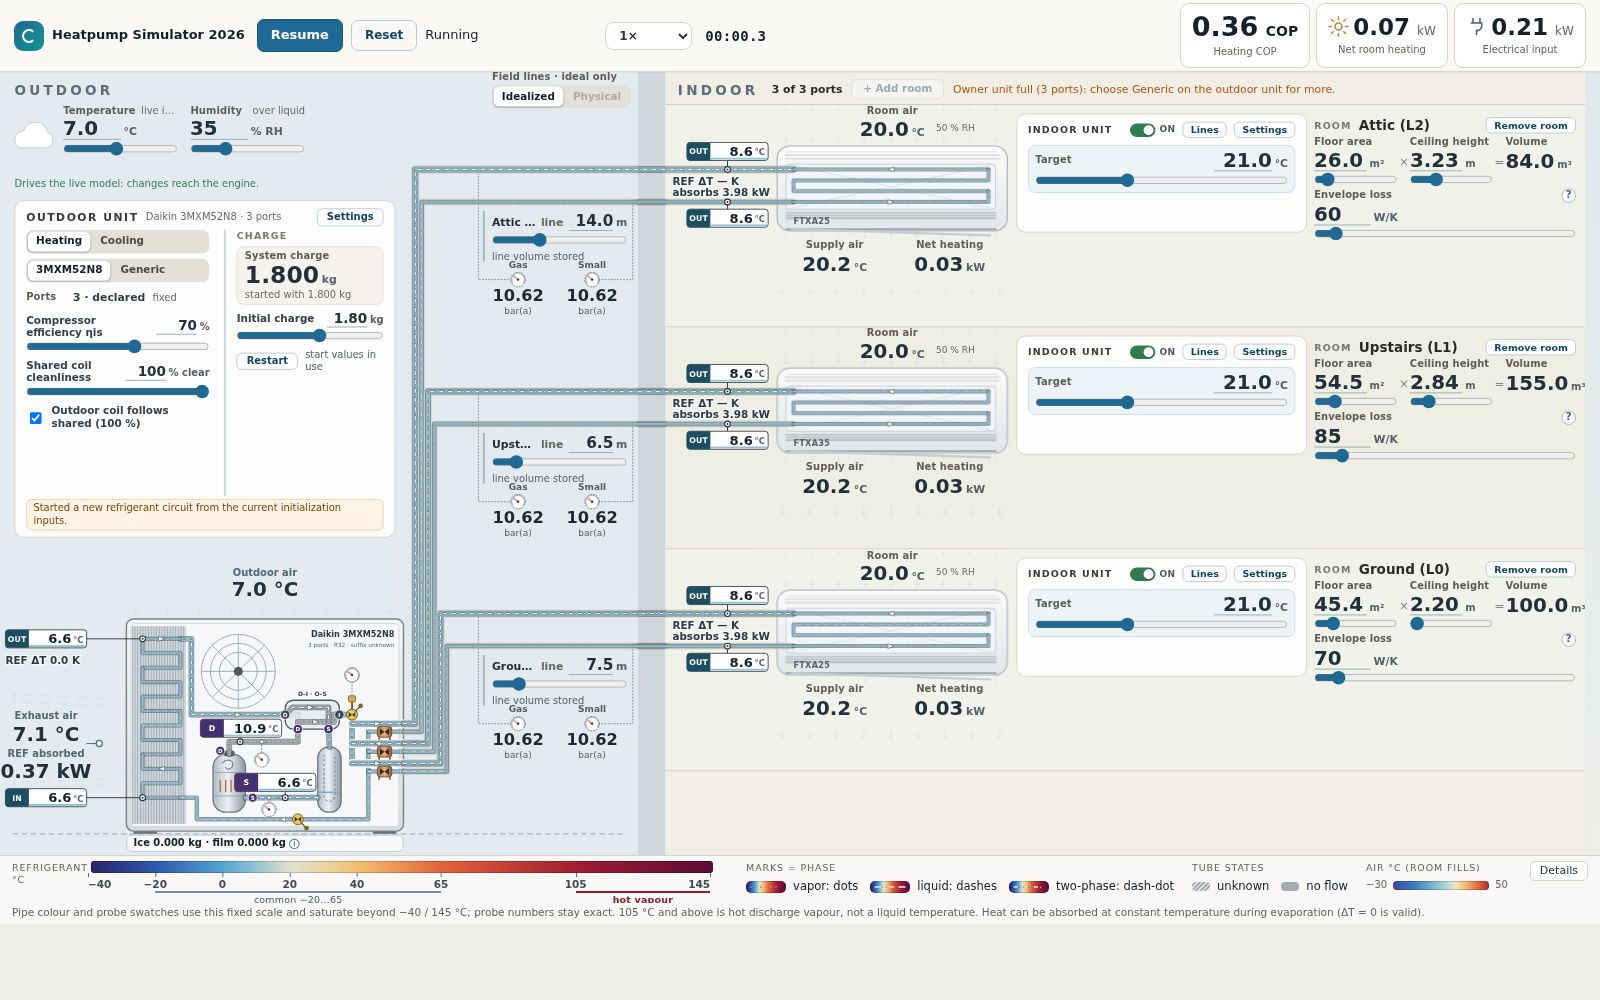
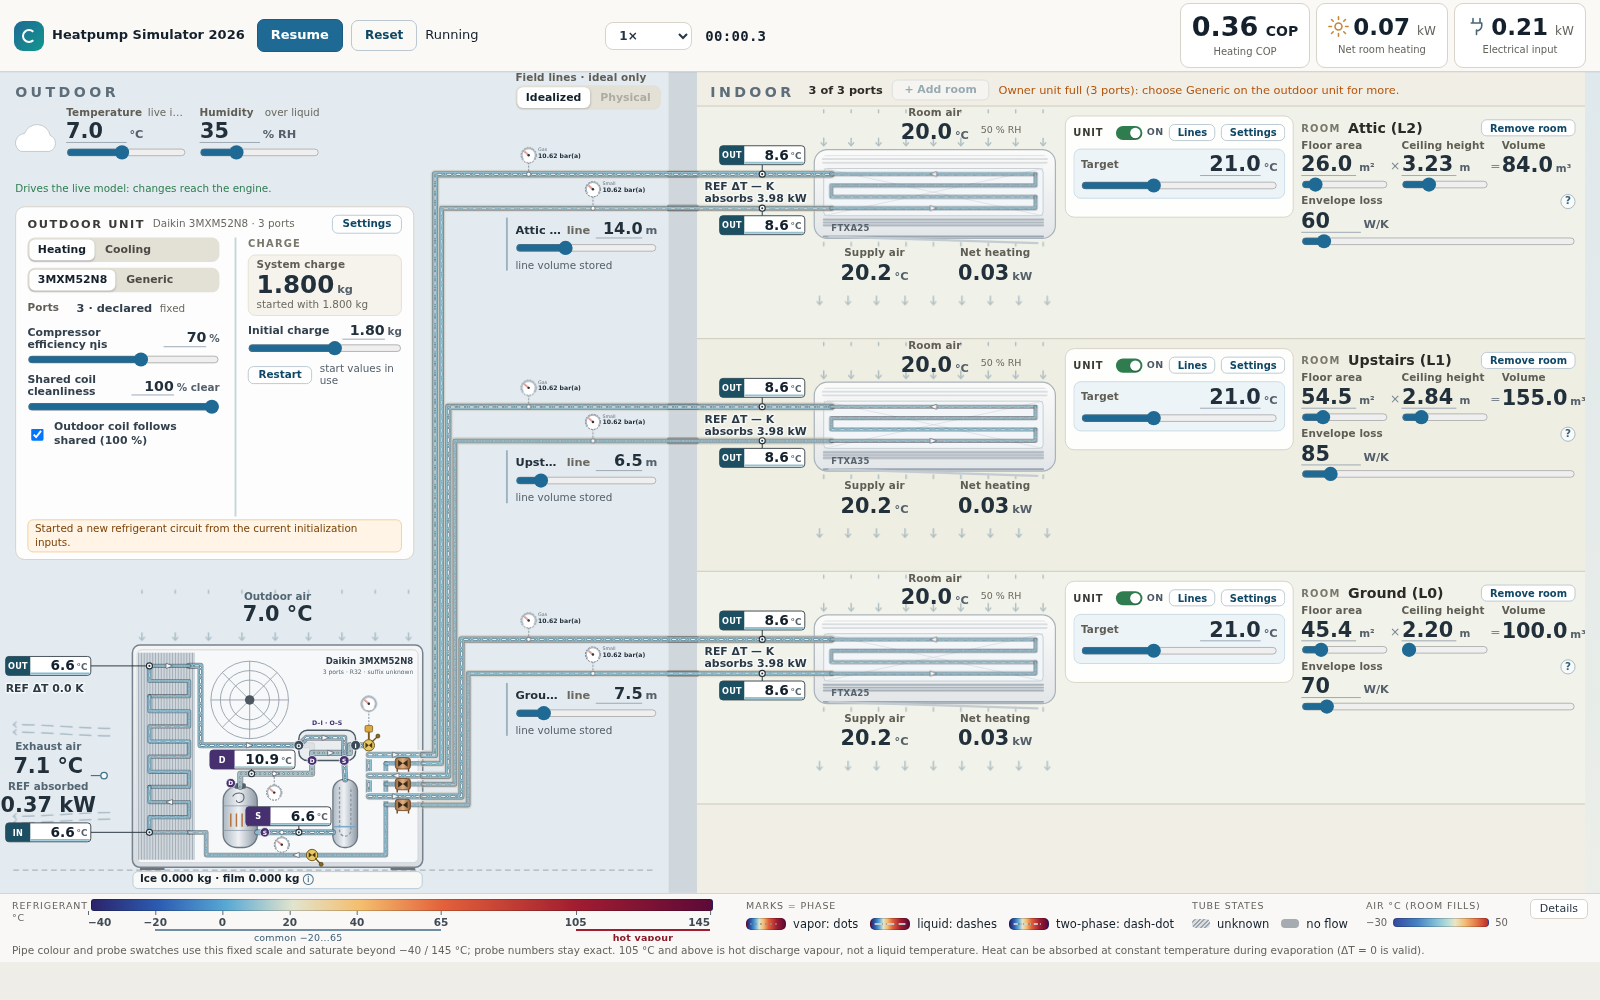
Reuse pipe-mounted manometers and compact indoor controls

Changed region(s): [[0.0, 0.062, 1.0, 0.961]]

diff --git a/src/scene.ts b/src/scene.ts
@@ -227,26 +227,22 @@ function stopValve(label: string, below = false): G {
     below ? txt(0, 19, label, 'dl lbl stop-lbl', 'middle') : txt(9, 3, label, 'dl lbl stop-lbl'));
 }
 
-/** Round pressure dial; value is written by update(). */
+/** Shared round pressure dial for the outdoor unit and every indoor branch. */
 class Gauge {
   readonly g: G;
   private readonly needle: SVGLineElement;
   private readonly val: SVGTextElement;
-  private readonly unit: SVGTextElement | null;
-  constructor(cx: number, cy: number, tag: string, virtual: boolean, branch = false) {
+  constructor(cx: number, cy: number, tag: string, virtual: boolean) {
     this.needle = svg('line', { x1: 0, y1: 0, x2: 0, y2: -6, class: 'g-needle' });
-    this.val = svg('text', { x: branch ? 0 : 10, y: branch ? 24 : 2.5, 'text-anchor': branch ? 'middle' : 'start', class: branch ? 'g-val branch-value' : 'g-val dl' });
-    this.unit = branch ? txt(0, 38, '', 'branch-unit', 'middle') : null;
-    this.g = svg('g', { class: `gauge${virtual ? ' virtual' : ''}${branch ? ' branch-gauge' : ''}`, transform: `translate(${cx} ${cy})` },
+    this.val = svg('text', { x: 10, y: 2.5, class: 'g-val dl' });
+    this.g = svg('g', { class: `gauge${virtual ? ' virtual' : ''}`, transform: `translate(${cx} ${cy})` },
       svg('circle', { r: 8, class: 'g-face' }),
       svg('path', { d: 'M-5.6 4.4A7.2 7.2 0 1 1 5.6 4.4', class: 'g-arc' }),
       this.needle, svg('circle', { r: 1.3, class: 'g-hub' }), this.val,
-      txt(branch ? 0 : 10, branch ? -13 : -4.5, tag, branch ? 'g-tag branch-tag' : 'g-tag dl', branch ? 'middle' : 'start'));
-    if (this.unit) this.g.append(this.unit);
+      txt(10, -4.5, tag, 'g-tag dl'));
   }
   set(barA: number | null, text: string): void {
-    setText(this.val, this.unit ? text.split(' ')[0]! : text);
-    if (this.unit) setText(this.unit, text.includes('bar(g)') ? 'bar(g)' : 'bar(a)');
+    setText(this.val, text);
     const a = barA === null ? -140 : -140 + clamp(barA / 32, 0, 1) * 280;
     setAttr(this.needle, 'transform', `rotate(${a.toFixed(1)})`);
     toggleClass(this.g, 'off', barA === null);
@@ -399,7 +395,7 @@ function roomPanel(i: number, hooks: SceneHooks, guide: HeatLossGuide): RoomPane
   remove.addEventListener('click', () => store.removeRoom(i));
   const tgt = html('div', { class: 'rp-card tgt' }, sp.root);
   const equip = html('div', { class: 'rp eq room-rp', 'data-block': 'equipment' },
-    html('div', { class: 'rp-head' }, html('span', { class: 'eq-tag' }, 'Indoor unit'), swLabel, linesBtn, gearBtn),
+    html('div', { class: 'rp-head' }, html('span', { class: 'eq-tag' }, 'Unit'), swLabel, linesBtn, gearBtn),
     html('div', { class: 'rp-cards' }, tgt));
   const env = html('div', { class: 'rp env room-env', 'data-block': 'environment' },
     html('div', { class: 'rp-head' }, html('span', { class: 'env-tag' }, 'Room'), name, remove),
@@ -554,6 +550,7 @@ export function createScene(hooks: SceneHooks, unitCard: OutdoorUnitCard, film: 
 
     // ---- rooms ----
     const zoneW = lay.vbW - wall.x1;
+    const branchTaps: G[] = [];
     for (const b of boxes) {
       const i = b.i;
       const view = svg('g', { class: 'room', 'data-room': i });
@@ -594,19 +591,19 @@ export function createScene(hooks: SceneHooks, unitCard: OutdoorUnitCard, film: 
         overlayPanel(b.x0 + ROOM_COLS.env.dx, py(ROOM_PANEL_H.env), ROOM_COLS.env.w, ROOM_PANEL_H.env, panel.env)));
       const lc = lineCtlBox(b, lay.ctlX);
       root.append(overlayPanel(lc.x, lc.y, lc.w, lc.h, lineCtlFor(i).root));
-      const gasGauge = new Gauge(lay.ctlX + 39, b.top + 194, 'Gas', true, true);
-      const smallGauge = new Gauge(lay.ctlX + 121, b.top + 194, 'Small', true, true);
+      const gasGauge = new Gauge(lay.ctlX + 24, b.gasY - 20, 'Gas', true);
+      const smallGauge = new Gauge(lay.ctlX + 92, b.liqY - 20, 'Small', true);
       setAttr(gasGauge.g, 'data-branch-pressure', 'gas');
       setAttr(smallGauge.g, 'data-branch-pressure', 'small');
       setAttr(gasGauge.g, 'data-room-id', store.state.cfg.rooms[i]!.id);
       setAttr(smallGauge.g, 'data-room-id', store.state.cfg.rooms[i]!.id);
       gasGauge.g.append(svg('title', {}, 'Indoor coil gas-port pressure. Illustrative gauge connection; not a manufacturer service fitting.'));
       smallGauge.g.append(svg('title', {}, 'Indoor coil small-port pressure. Illustrative gauge connection; not a manufacturer service fitting.'));
-      root.append(svg('g', { class: 'taps branch-taps' },
-        svg('path', { class: 'tap-stub', d: `M${lay.ctlX - 5} ${b.gasY}V${b.top + 194}H${lay.ctlX + 31}` }),
-        svg('path', { class: 'tap-stub', d: `M${lay.wall.x0 - 6} ${b.liqY}V${b.top + 194}H${lay.ctlX + 129}` }),
-        svg('circle', { class: 'node virtual', cx: lay.ctlX - 5, cy: b.gasY, r: 2.2 }),
-        svg('circle', { class: 'node virtual', cx: lay.wall.x0 - 6, cy: b.liqY, r: 2.2 }),
+      branchTaps.push(svg('g', { class: 'taps branch-taps' },
+        svg('path', { class: 'tap-stub', d: `M${lay.ctlX + 24} ${b.gasY}V${b.gasY - 12}` }),
+        svg('path', { class: 'tap-stub', d: `M${lay.ctlX + 92} ${b.liqY}V${b.liqY - 12}` }),
+        svg('circle', { class: 'node virtual', cx: lay.ctlX + 24, cy: b.gasY, r: 2.2 }),
+        svg('circle', { class: 'node virtual', cx: lay.ctlX + 92, cy: b.liqY, r: 2.2 }),
         gasGauge.g, smallGauge.g));
       const at = indoorProbeAt(b);
       rooms.push({
@@ -744,7 +741,7 @@ export function createScene(hooks: SceneHooks, unitCard: OutdoorUnitCard, film: 
       pipes.set(spec.id, p);
       pipeLayer.append(p.g);
     }
-    root.append(pipeLayer, svg('g', { class: 'ov', transform: `translate(${OUT.x} ${OUT.y})` }, ...overlay));
+    root.append(pipeLayer, ...branchTaps, svg('g', { class: 'ov', transform: `translate(${OUT.x} ${OUT.y})` }, ...overlay));
 
     // EEVs, service port, taps (above pipes)
     for (let i = 0; i < n; i++) {

diff --git a/src/geometry.ts b/src/geometry.ts
@@ -3,7 +3,7 @@ import { INDOOR_CASE_MM, OUTDOOR_CASE_MM } from './types';
 
 /**
  * Scene geometry as a function of the active room count n. One physical illustration scale for BOTH casings: 0.32 px per mm.
- * Tube routing is schematic. Rows keep at least 242 scene units for intake, equipment and outlet readings. Larger layouts grow vertically
+ * Tube routing is schematic. Rows keep at least 220 scene units for intake, equipment and outlet readings. Larger layouts grow vertically
  * and scroll inside the stage. The generic outdoor casing grows only below the owner
  * envelope, to hold more ports: an explicit assumption, not a published dimension.
  */
@@ -21,11 +21,11 @@ export const STACK_TOP = 36;
 const STACK_FIVE = 738;
 const RISER_PITCH = 14;
 /** Indoor zone width, constant for every n; the whole scene widens instead when the riser corridor grows. */
-export const ZONE_W = 1019;
+export const ZONE_W = 939;
 /** Horizontal budget of one room row, from the wall: pipe corridor with probes, unit, equipment block, environment block. */
-export const ROOM_COLS = { corridor: 124, equip: { dx: 389, w: 322 }, env: { dx: 719, w: 290 } } as const;
+export const ROOM_COLS = { corridor: 124, equip: { dx: 389, w: 242 }, env: { dx: 639, w: 290 } } as const;
 /** Panel heights of one room row: equipment card, and the taller unboxed environment (floor area, ceiling height, volume, air, envelope loss). Both fit the five-room row. */
-export const ROOM_PANEL_H = { equip: 132, env: 144 } as const;
+export const ROOM_PANEL_H = { equip: 108, env: 144 } as const;
 /**
  * Outdoor connection corridor, right of the risers and left of the wall: one line-length block per branch under its line pair
  * (`lineCtl`) and, above the first room, the shared field-line model switch (`modelCtl`). Blocks sit clear of the pair's pipes.
@@ -66,7 +66,7 @@ export function layoutFor(n: number): Layout {
   const ctlX = riserEnd + LINE_CTL.gap;
   const x0 = ctlX + LINE_CTL.w + LINE_CTL.gap;
   const x1 = x0 + 30;
-  const roomH = Math.max(STACK_FIVE / rooms, 242);
+  const roomH = Math.max(STACK_FIVE / rooms, 220);
   const stackBottom = STACK_TOP + roomH * rooms;
   const outH = outdoorHeight(rooms);
   const groundY = OUT.y + outH + 3;

diff --git a/src/style.css b/src/style.css
@@ -617,9 +617,9 @@ select { width: 100%; padding: 6px 8px; border: 1px solid var(--line); border-ra
 .outdoor-probes [data-readout="outdoor-coil"] text:nth-child(2) { display: none; }
 .coil-film .ice-note { top: auto; bottom: 22px; }
 
-/* Branch manometers remain readable in the overview, alongside their line set. */
-.branch-gauge .branch-value { font: 700 18px var(--font); fill: #1d2a35; }
-.branch-gauge .branch-tag { font: 600 10px var(--font); fill: #52606c; }
+/* Identical manometers use short fittings on the two branch pipes. */
 .branch-taps { pointer-events: none; }
-
-.branch-gauge .branch-unit { font: 500 10px var(--font); fill: #52606c; }
+.branch-taps .dl { opacity: 1; }
+.room-rp .rp-head { gap: 6px; }
+.room-rp.rp.eq { padding: 6px 8px; }
+.room-rp .eq-tag { letter-spacing: .08em; }
